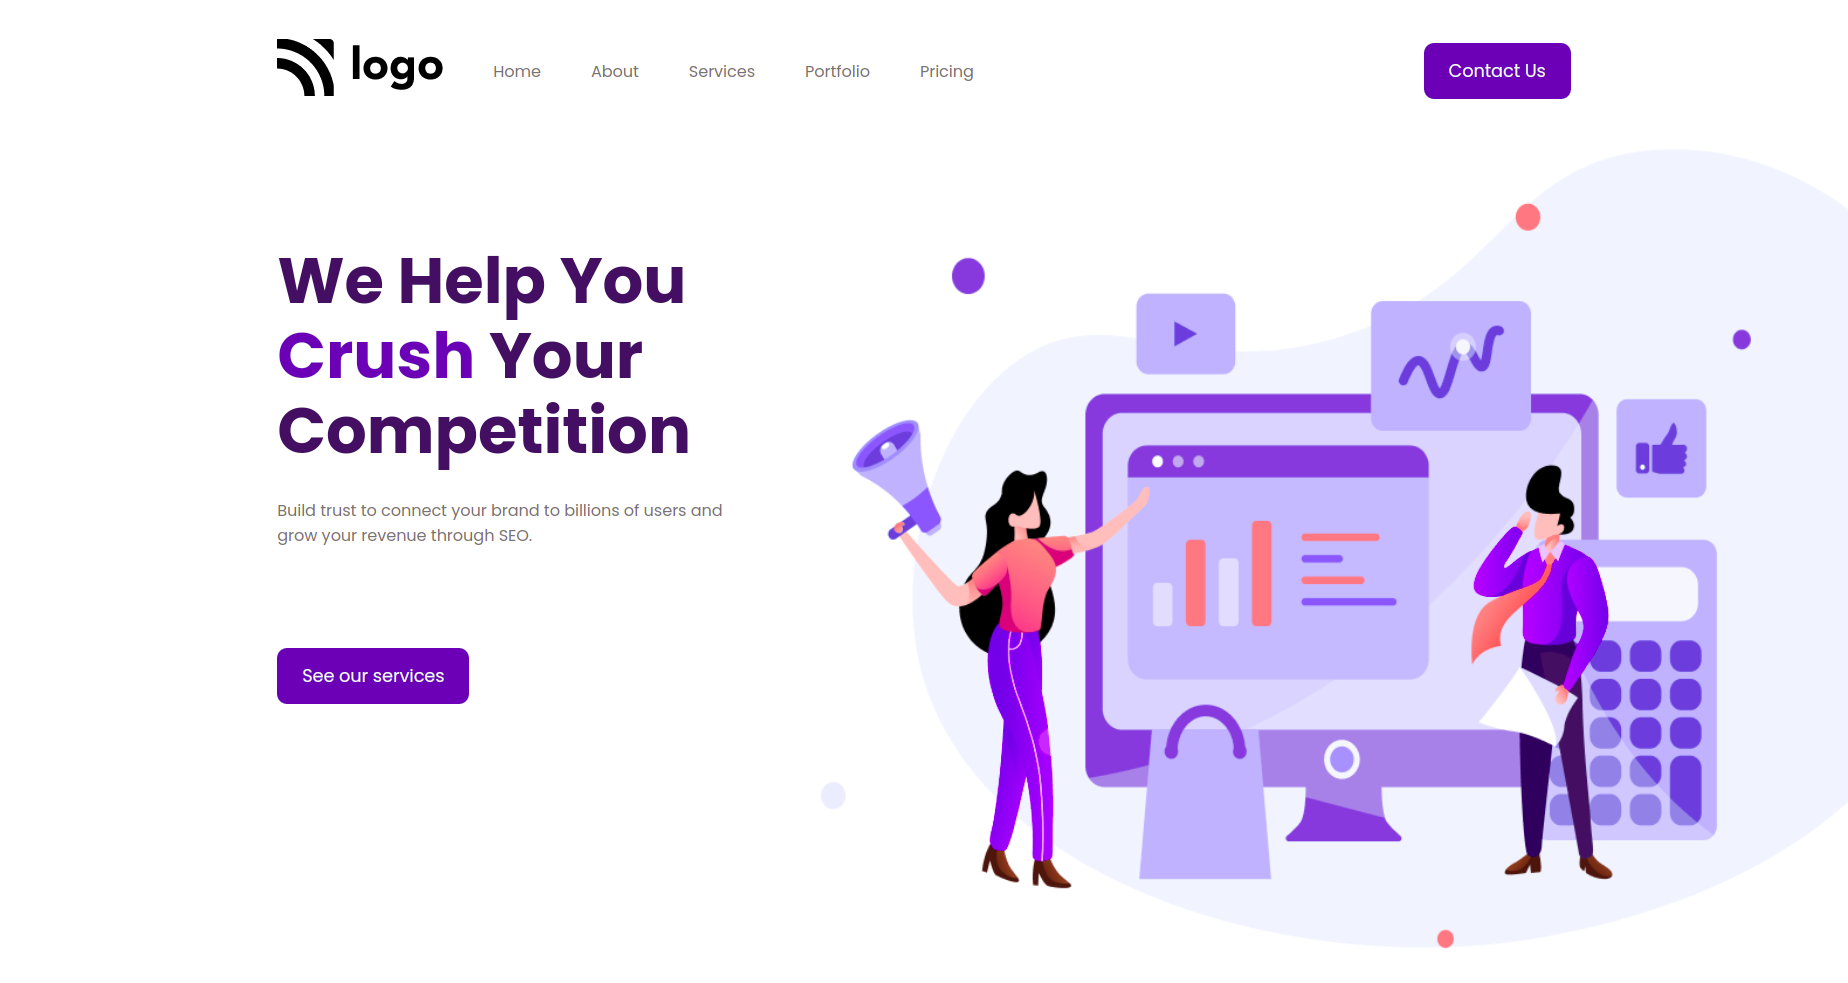
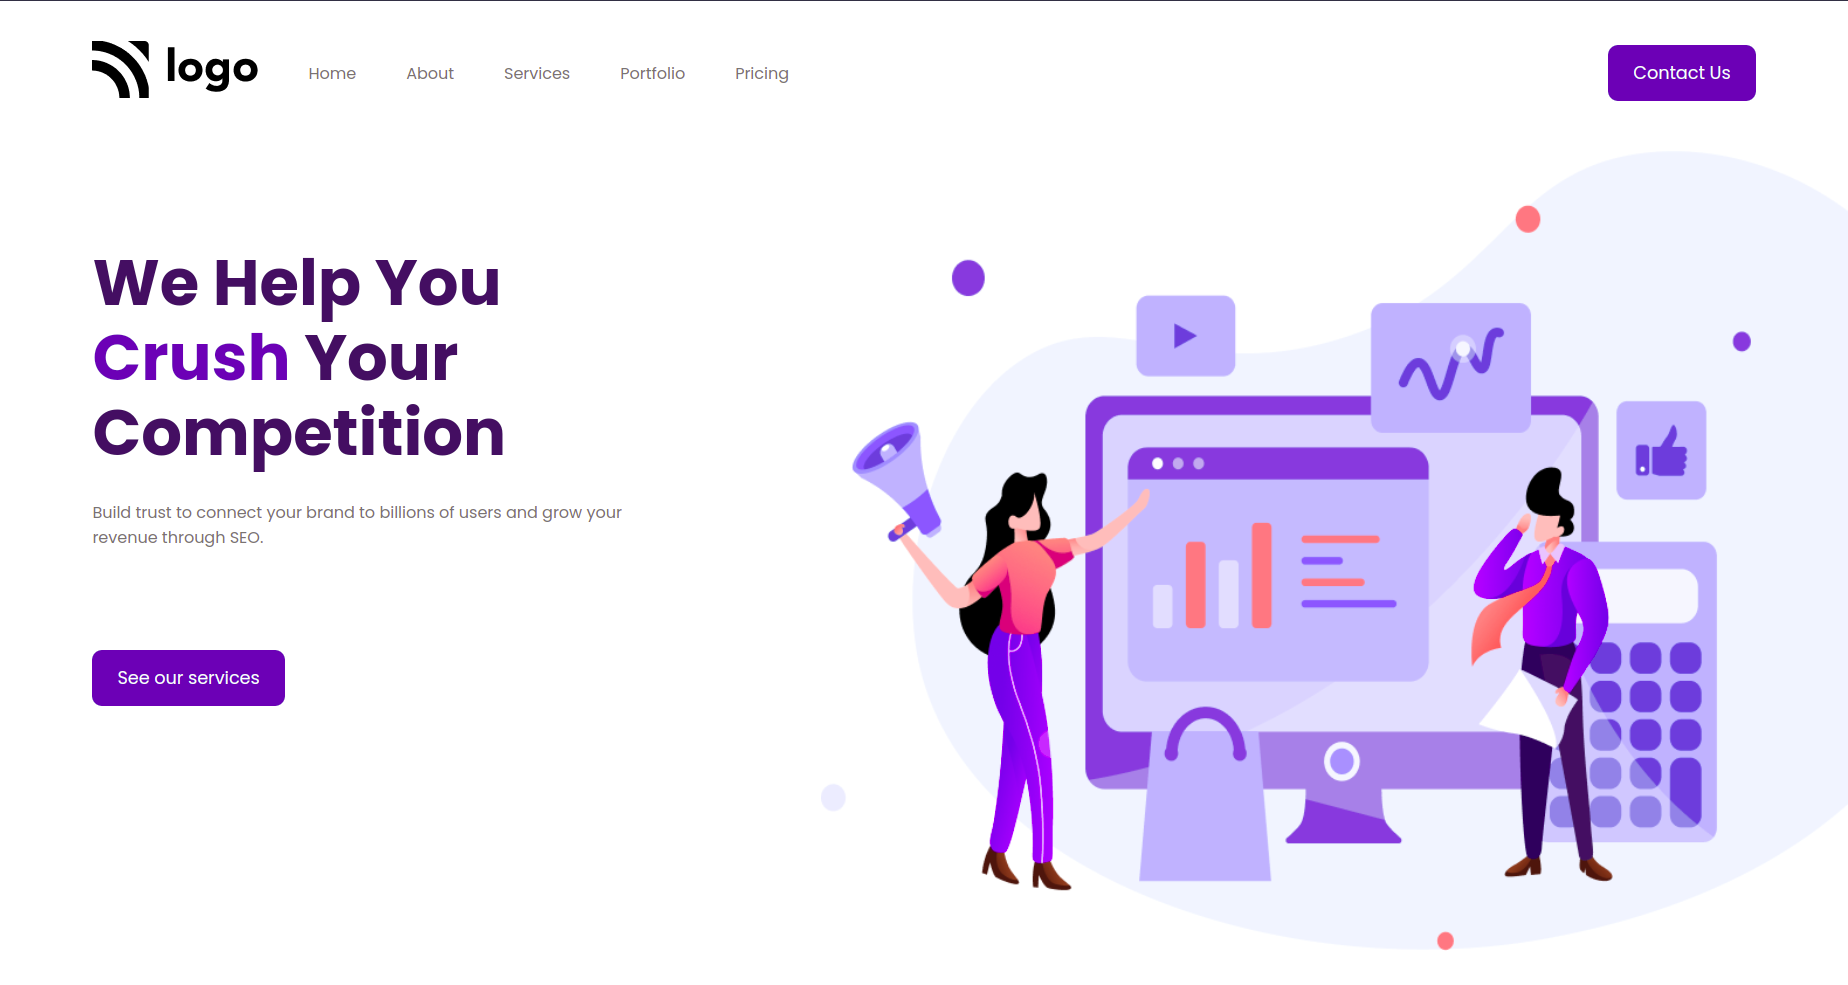
container width fix in project 4

diff --git a/live-class-project-04/style.css b/live-class-project-04/style.css
@@ -29,7 +29,7 @@ body {
 }
 
 .container {
-  width: 70vw;
+  width: 90vw;
   height: 100%;
   margin: 0 auto;
 }
